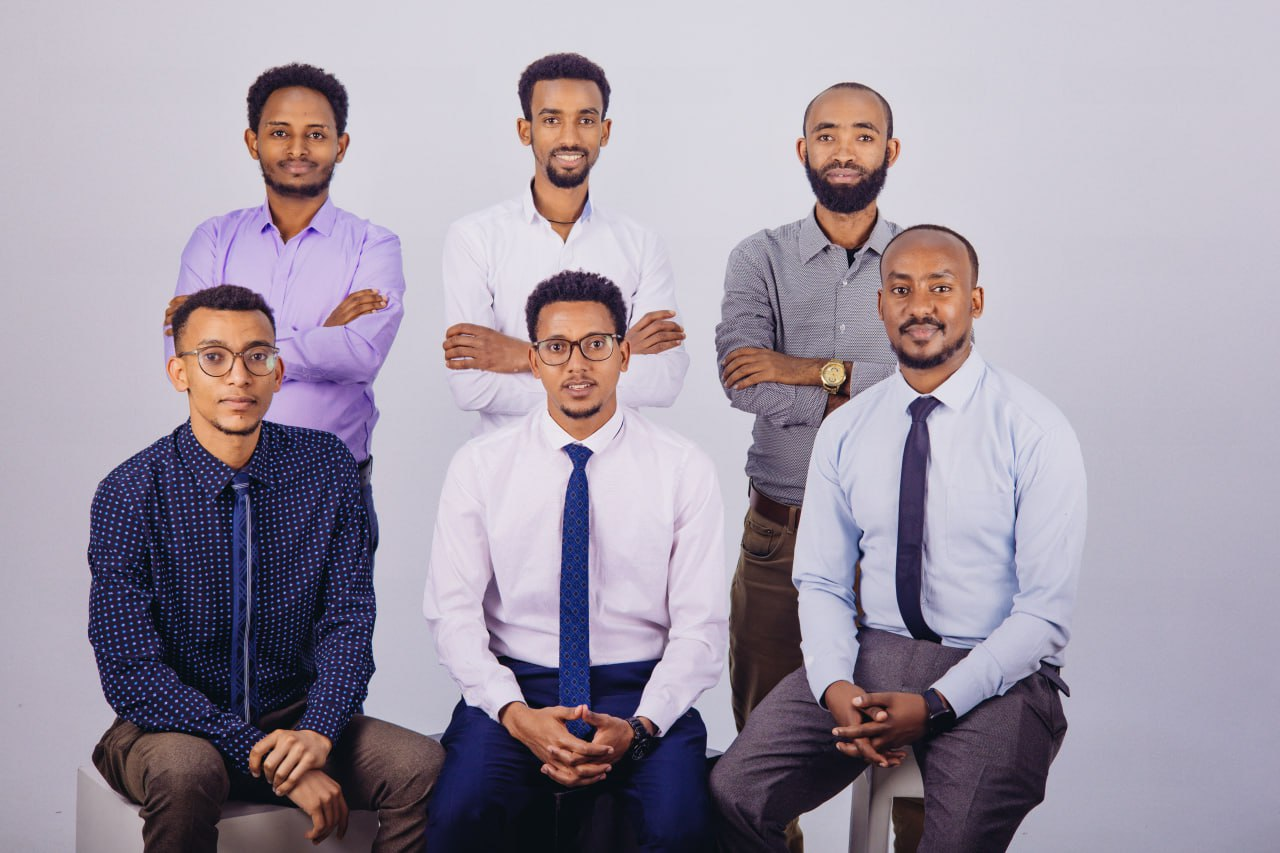
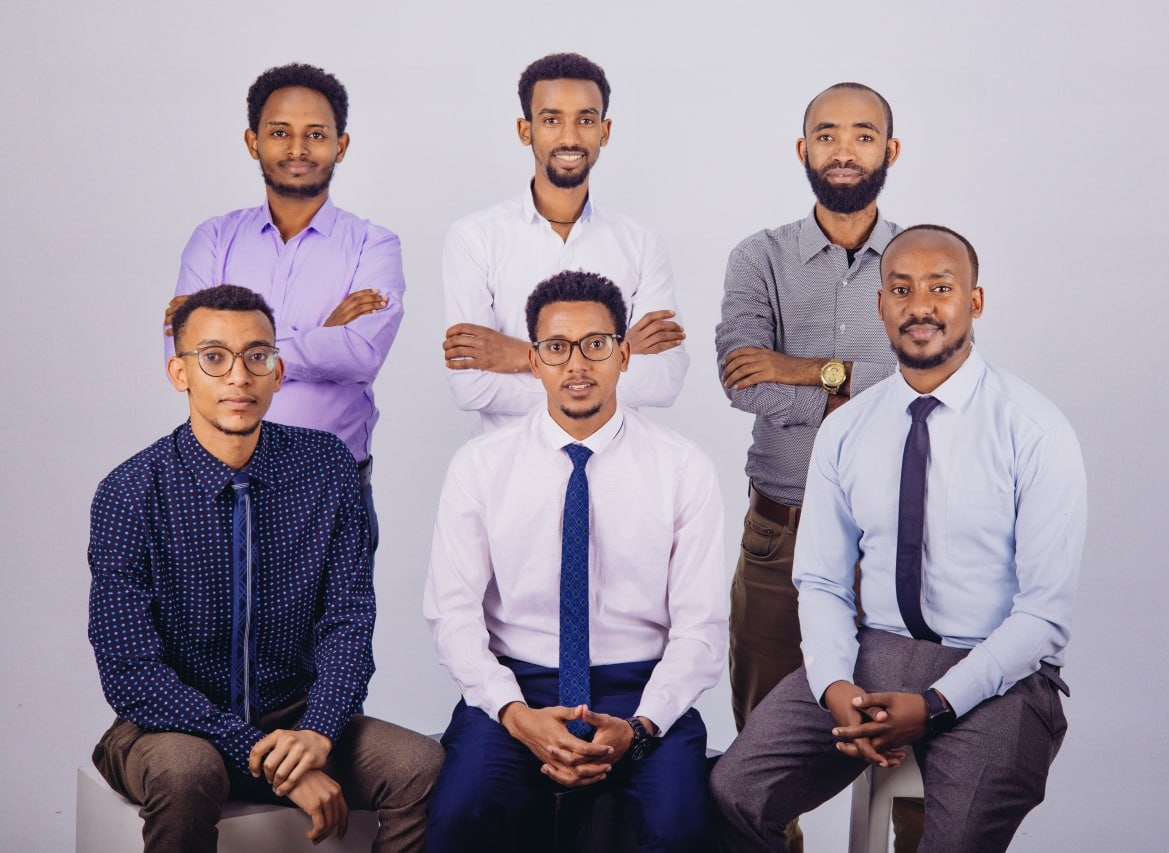
updated #4

diff --git a/client/src/pages/aboutAsPages/OurTeam.jsx b/client/src/pages/aboutAsPages/OurTeam.jsx
@@ -3,12 +3,59 @@ import OurTeams from "../../components/aboutUs/OurTeams";
 const OurTeam = () => {
   return (
     <div>
-      <div className="bg-[#161628] text-center text-white text-6xl font-semibold py-20">
-        <p className="">Our team</p>
-      </div>
+      {/* Header Section with Background Image */}
+      <div
+  className="relative text-center text-white text-6xl font-semibold h-[50vh] sm:h-[70vh] md:h-[93vh] flex items-center justify-center overflow-hidden"
+>
+  {/* Background Image with Cover */}
+  <div
+  className="absolute inset-0 bg-cover filter blur-10 bg-center sm:bg-top"
+  style={{
+    backgroundImage: `url(/img/aboutUs/groupPhoto.jpg)`, // Replace with your image path
+  }}
+></div>
+
+
+
+  {/* Overlay for Better Contrast */}
+  <div className="absolute inset-0 bg-black bg-opacity-50"></div>
+
+  {/* Heading */}
+  <div className="relative z-10">
+    <p className="text-6xl font-extrabold text-yellow-400 tracking-wide relative">
+      <span className="before:content-[''] before:absolute before:-inset-1 before:rounded-lg before:bg-gradient-to-r before:from-yellow-300 before:via-yellow-400 before:to-yellow-500 before:blur-lg before:opacity-30"></span>
+      <span className="relative">Our Team</span>
+    </p>
+  </div>
+
+
+
+  {/* Arrow Down Animation */}
+  <div className="absolute bottom-8 z-10 animate-bounce cursor-pointer">
+    <a href="#ourTeam">
+      <svg
+        xmlns="http://www.w3.org/2000/svg"
+        fill="none"
+        viewBox="0 0 24 24"
+        strokeWidth={2}
+        stroke="white"
+        className="w-10 h-10"
+      >
+        <path
+          strokeLinecap="round"
+          strokeLinejoin="round"
+          d="M19 9l-7 7-7-7"
+        />
+      </svg>
+    </a>
+  </div>
+</div>
+
+
       <br />
       <br />
 
+      {/* OurTeams Component */}
       <div>
         <OurTeams />
       </div>

diff --git a/client/src/components/aboutUs/OurTeams.jsx b/client/src/components/aboutUs/OurTeams.jsx
@@ -70,6 +70,7 @@ const OurTeams = () => {
 
 	return (
 		<div
+		id="ourTeam"
 			className={`px-6 py-12 lg:px-32 ${
 				isDarkTheme
 					? "bg-gray-800"
